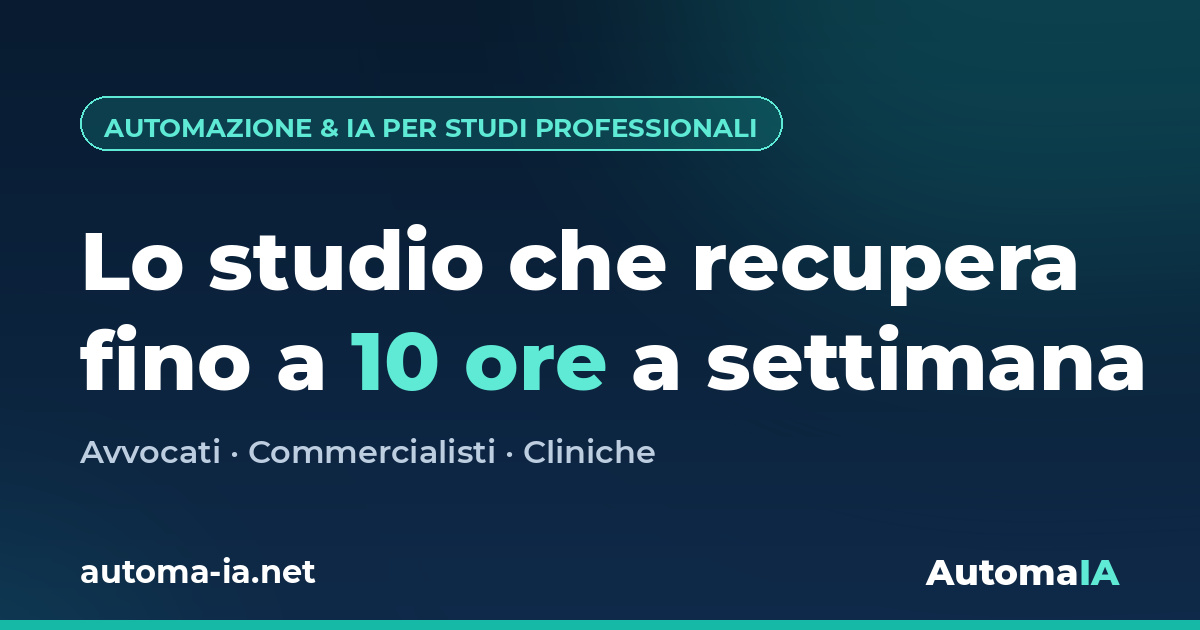
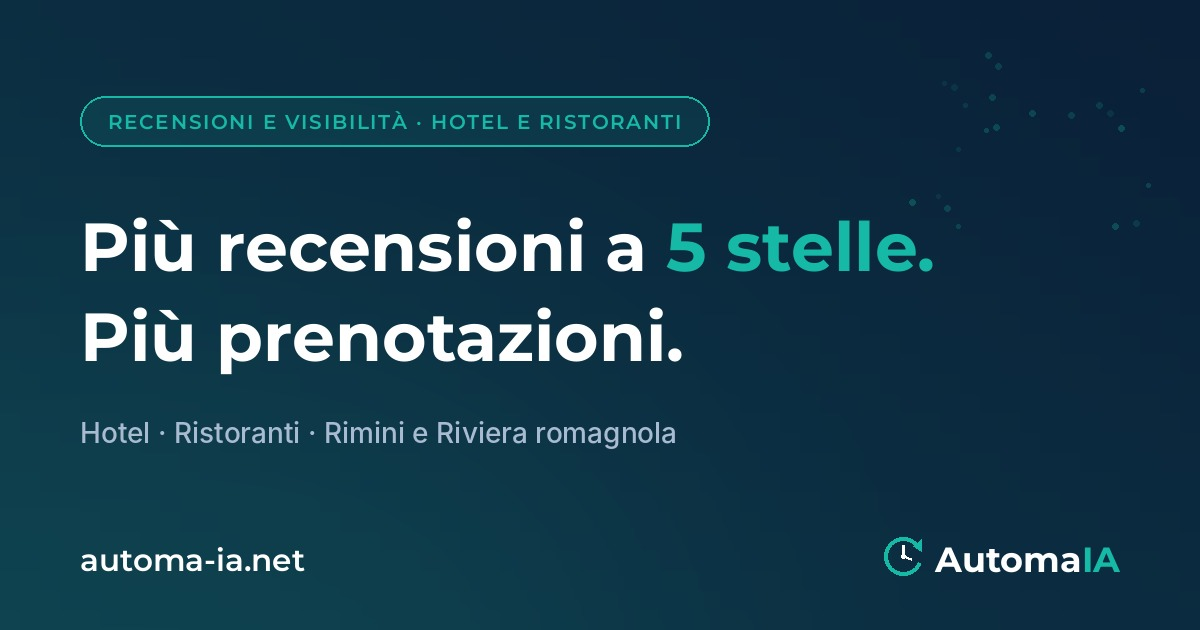
Remplace l'og:image du site par la version hôtels et restaurants
L'aperçu affiché quand on partage automa-ia.net venait de public/og-image.jpg,
restée sur « Lo studio che recupera fino a 10 ore a settimana · Avvocati ·
Commercialisti · Cliniche ». Nouvelle image 1200x630 au même gabarit, et
vignette LinkedIn 1200x627 régénérée depuis le même rendu.

Claude-Session: https://claude.ai/code/session_019FtsrF7qdDwHQVwo3wBAb8

diff --git a/gen_og_image.py b/gen_og_image.py
@@ -1,0 +1,132 @@
+#!/usr/bin/env python3
+"""Image de partage (og:image) AutomaIA - niche hotels & restaurants.
+Produit :
+  - agence-ia/site/automaia-web/public/og-image.jpg   1200x630  (site : LinkedIn, Facebook, WhatsApp...)
+  - agence-ia/marque/linkedin-featured-sito.png       1200x627  (section « In primo piano »)
+"""
+import math
+import random
+from PIL import Image, ImageDraw, ImageFont, ImageFilter
+
+TEAL = (22, 184, 166)
+WHITE = (255, 255, 255)
+GREY = (168, 187, 208)
+
+MONT_B = "/tmp/fonts/Montserrat-700.ttf"
+MONT_SB = "/tmp/fonts/Montserrat-600.ttf"
+INTER_M = "/usr/share/fonts/opentype/inter/Inter-Medium.otf"
+
+
+def font(path, size):
+    return ImageFont.truetype(path, size)
+
+
+def draw_mark(draw, cx, cy, R, ring_color, hands_color):
+    bbox = [cx - R, cy - R, cx + R, cy + R]
+    width = max(4, R // 6)
+    end_deg = 318
+    draw.arc(bbox, start=22, end=end_deg, fill=ring_color, width=width)
+    hw = width * 1.35
+    a = math.radians(end_deg)
+    at = a + (width * 2.3) / R
+
+    def oc(angle, radius):
+        return (cx + radius * math.cos(angle), cy + radius * math.sin(angle))
+
+    draw.polygon([oc(at, R), oc(a, R - hw), oc(a, R + hw)], fill=ring_color)
+    hwid = max(3, R // 9)
+    draw.line([(cx, cy), (cx, cy - R * 0.55)], fill=hands_color, width=hwid)
+    draw.line([(cx, cy), (cx + R * 0.42, cy + R * 0.18)], fill=hands_color, width=hwid)
+    d = max(2, R // 7)
+    draw.ellipse([cx - d, cy - d, cx + d, cy + d], fill=hands_color)
+
+
+def spaced(draw, x, y, text, f, fill, extra):
+    for ch in text:
+        draw.text((x, y), ch, font=f, fill=fill)
+        x += draw.textlength(ch, font=f) + extra
+    return x
+
+
+def render(W, H):
+    # degrade diagonal : navy sombre en haut a droite -> navy teinte teal en bas a gauche
+    c_from = (10, 32, 56)
+    c_to = (14, 58, 74)
+    small = Image.new("RGB", (60, 32))
+    sp = small.load()
+    for y in range(32):
+        for x in range(60):
+            t = max(0.0, min(1.0, ((1 - x / 59) * 0.55 + (y / 31) * 0.45)))
+            sp[x, y] = tuple(int(c_from[i] + (c_to[i] - c_from[i]) * t) for i in range(3))
+    base = small.resize((W, H), Image.BICUBIC)
+
+    # halo teal diffus en bas a gauche
+    glow = Image.new("L", (W, H), 0)
+    gd = ImageDraw.Draw(glow)
+    gd.ellipse([-W * 0.25, H * 0.55, W * 0.55, H * 1.45], fill=70)
+    glow = glow.filter(ImageFilter.GaussianBlur(W // 8))
+    base = Image.composite(Image.new("RGB", (W, H), (16, 92, 96)), base, glow)
+
+    draw = ImageDraw.Draw(base, "RGBA")
+
+    random.seed(5)
+    for _ in range(22):
+        cx = random.randint(int(W * 0.76), W - 40)
+        cy = random.randint(50, int(H * 0.38))
+        rad = random.choice([2, 3, 3])
+        draw.ellipse([cx - rad, cy - rad, cx + rad, cy + rad],
+                     fill=(22, 184, 166, random.randint(25, 70)))
+
+    k = H / 630.0
+    PAD = int(80 * k)
+
+    # pastille
+    f_badge = font(MONT_SB, int(20 * k))
+    badge = "RECENSIONI E VISIBILITÀ · HOTEL E RISTORANTI"
+    sp_extra = 1.7 * k
+    bw = sum(draw.textlength(c, font=f_badge) + sp_extra for c in badge) - sp_extra
+    by0 = int(96 * k)
+    bh = int(50 * k)
+    draw.rounded_rectangle([PAD, by0, PAD + bw + 56 * k, by0 + bh], radius=bh // 2,
+                           fill=(22, 184, 166, 26), outline=TEAL, width=max(2, int(2 * k)))
+    spaced(draw, PAD + 28 * k, by0 + 13 * k, badge, f_badge, TEAL, sp_extra)
+
+    # titre
+    f_h = font(MONT_B, int(68 * k))
+    y1, y2 = int(205 * k), int(295 * k)
+    a1, a2 = "Più recensioni a ", "5 stelle."
+    draw.text((PAD, y1), a1, font=f_h, fill=WHITE)
+    draw.text((PAD + draw.textlength(a1, font=f_h), y1), a2, font=f_h, fill=TEAL)
+    draw.text((PAD, y2), "Più prenotazioni.", font=f_h, fill=WHITE)
+
+    # sous-titre
+    f_sub = font(INTER_M, int(28 * k))
+    draw.text((PAD, int(415 * k)), "Hotel · Ristoranti · Rimini e Riviera romagnola",
+              font=f_sub, fill=GREY)
+
+    # pied
+    f_url = font(MONT_SB, int(31 * k))
+    draw.text((PAD, int(540 * k)), "automa-ia.net", font=f_url, fill=WHITE)
+
+    f_word = font(MONT_B, int(35 * k))
+    wa, wb = "Automa", "IA"
+    wwa = draw.textlength(wa, font=f_word)
+    wwb = draw.textlength(wb, font=f_word)
+    icon_r = int(19 * k)
+    gap = int(13 * k)
+    sx = W - PAD - (icon_r * 2 + gap + wwa + wwb)
+    draw_mark(draw, sx + icon_r, int(556 * k), icon_r, ring_color=TEAL, hands_color=WHITE)
+    draw.text((sx + icon_r * 2 + gap, int(538 * k)), wa, font=f_word, fill=WHITE)
+    draw.text((sx + icon_r * 2 + gap + wwa, int(538 * k)), wb, font=f_word, fill=TEAL)
+
+    return base
+
+
+og = render(1200, 630)
+og.save("/home/user/no_code-Projects/agence-ia/site/automaia-web/public/og-image.jpg",
+        "JPEG", quality=92, optimize=True)
+print("saved public/og-image.jpg 1200x630")
+
+feat = render(1200, 627)
+feat.save("/home/user/no_code-Projects/agence-ia/marque/linkedin-featured-sito.png", "PNG")
+print("saved linkedin-featured-sito.png 1200x627")
